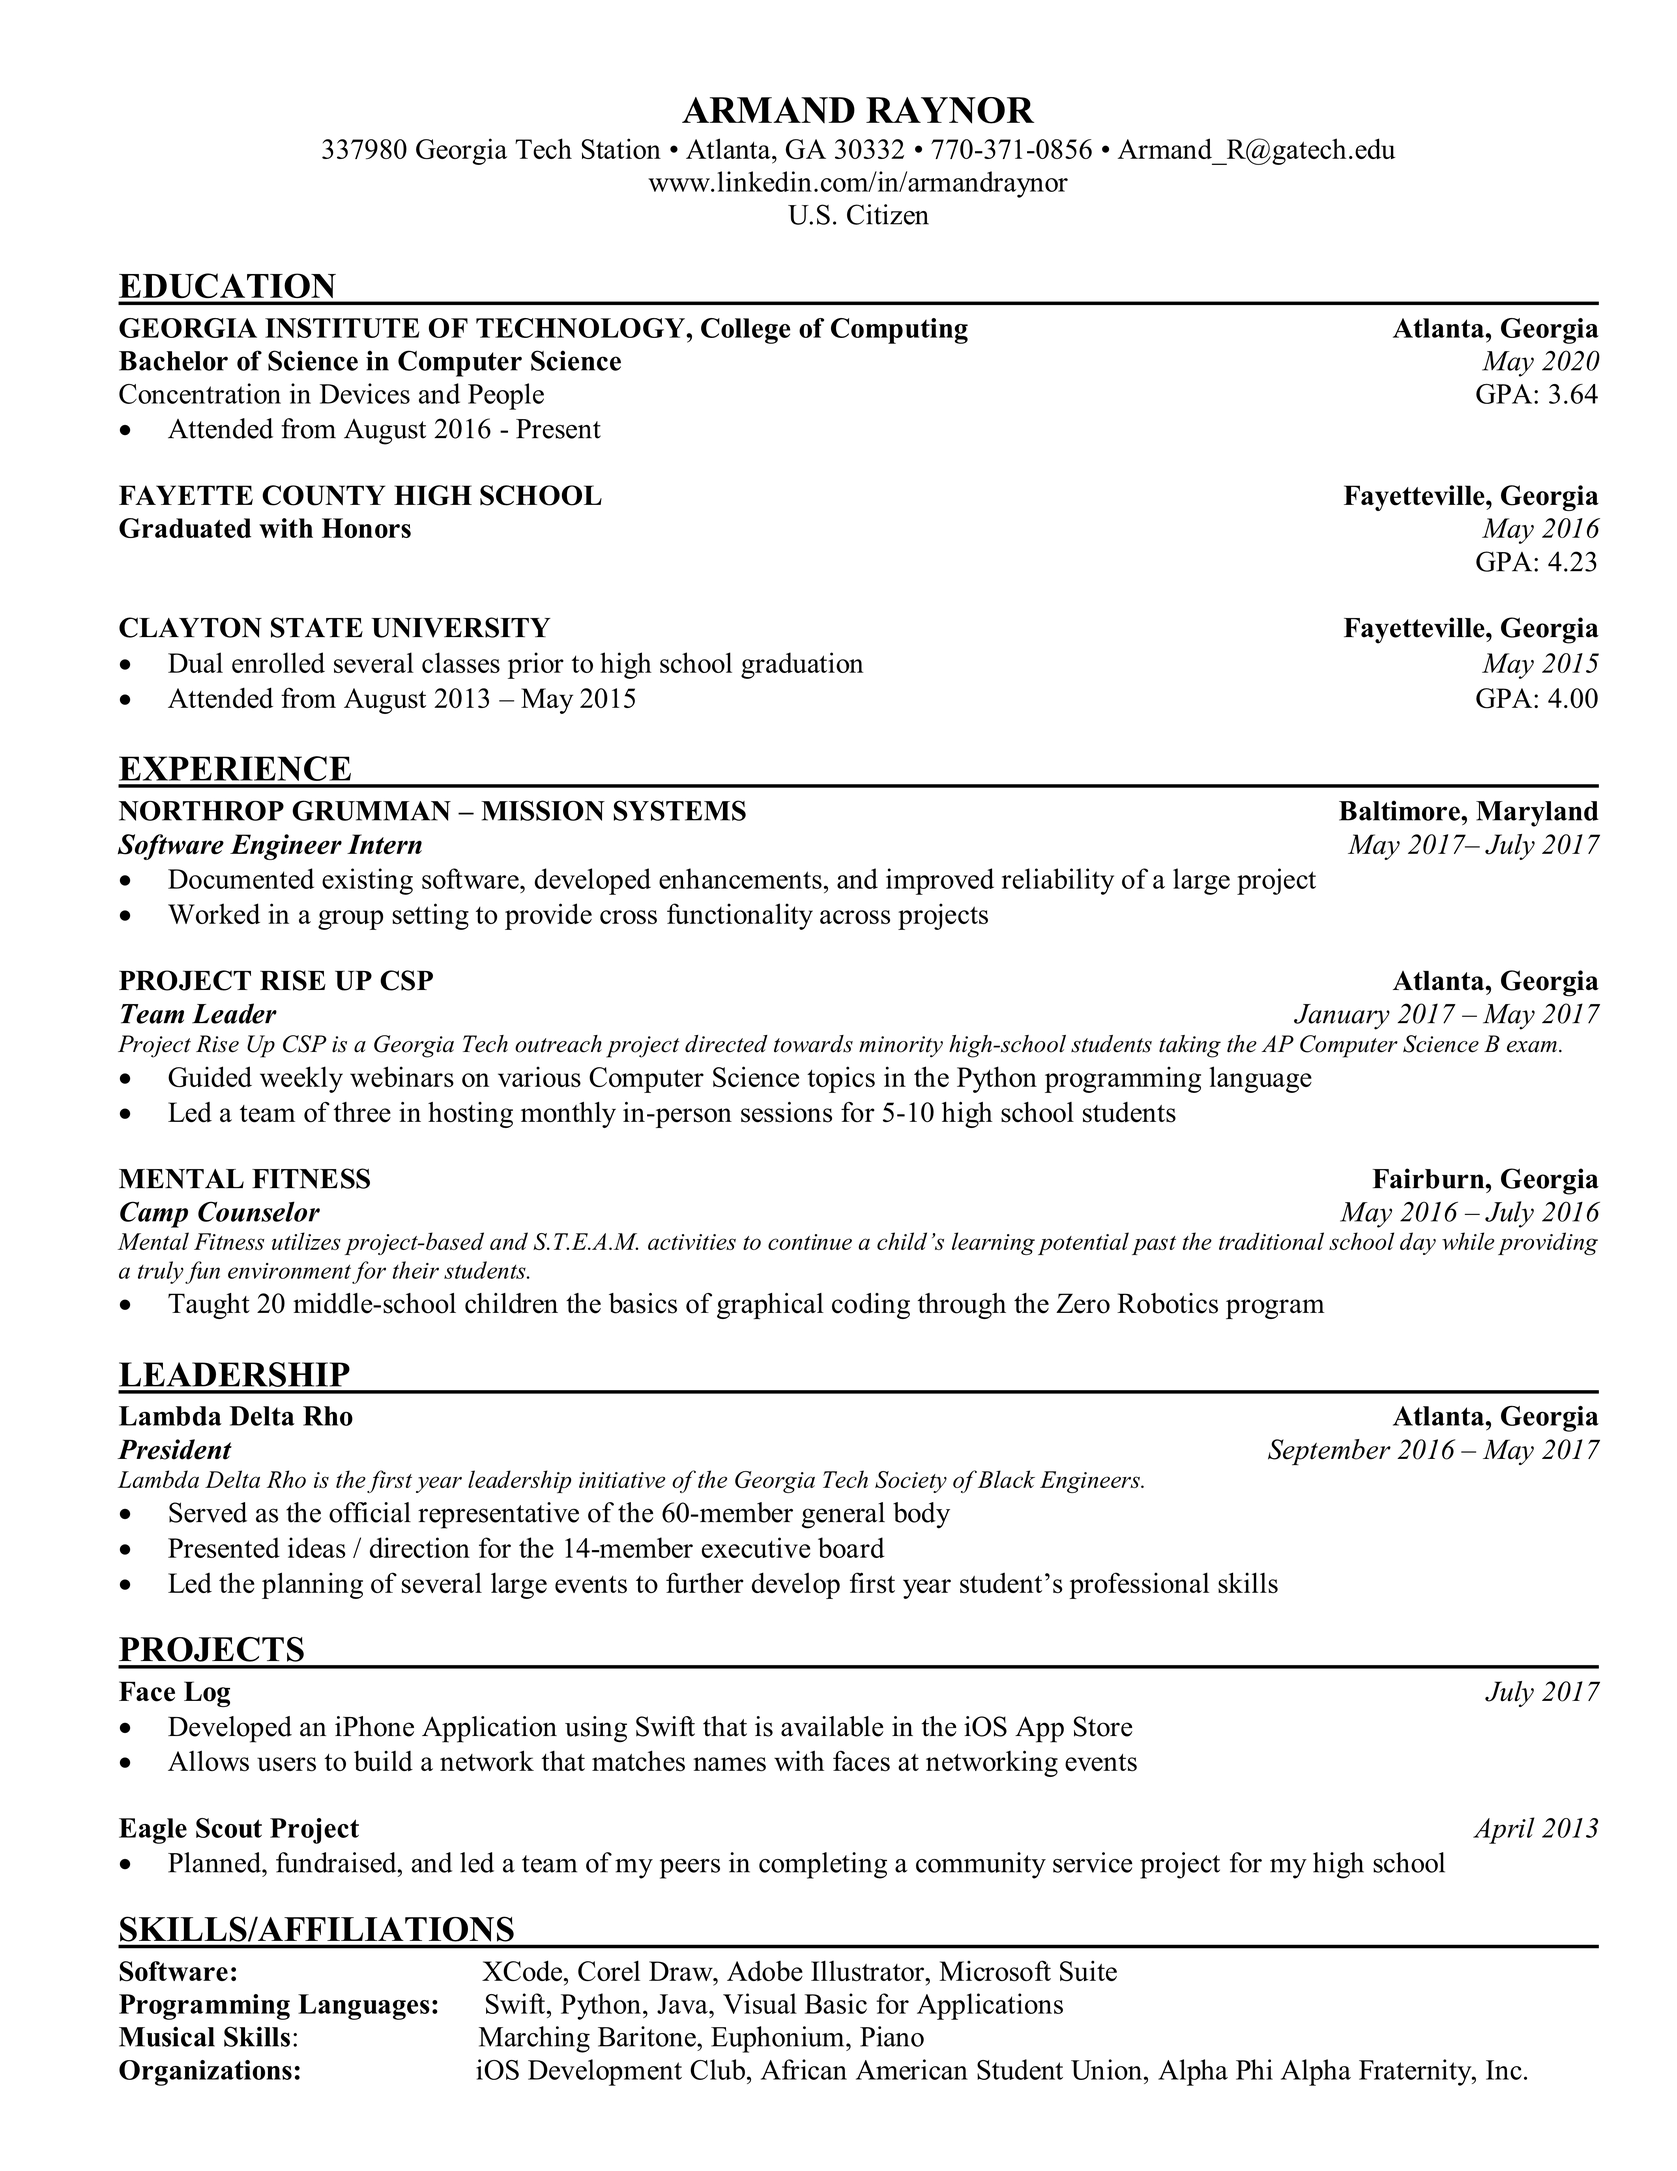
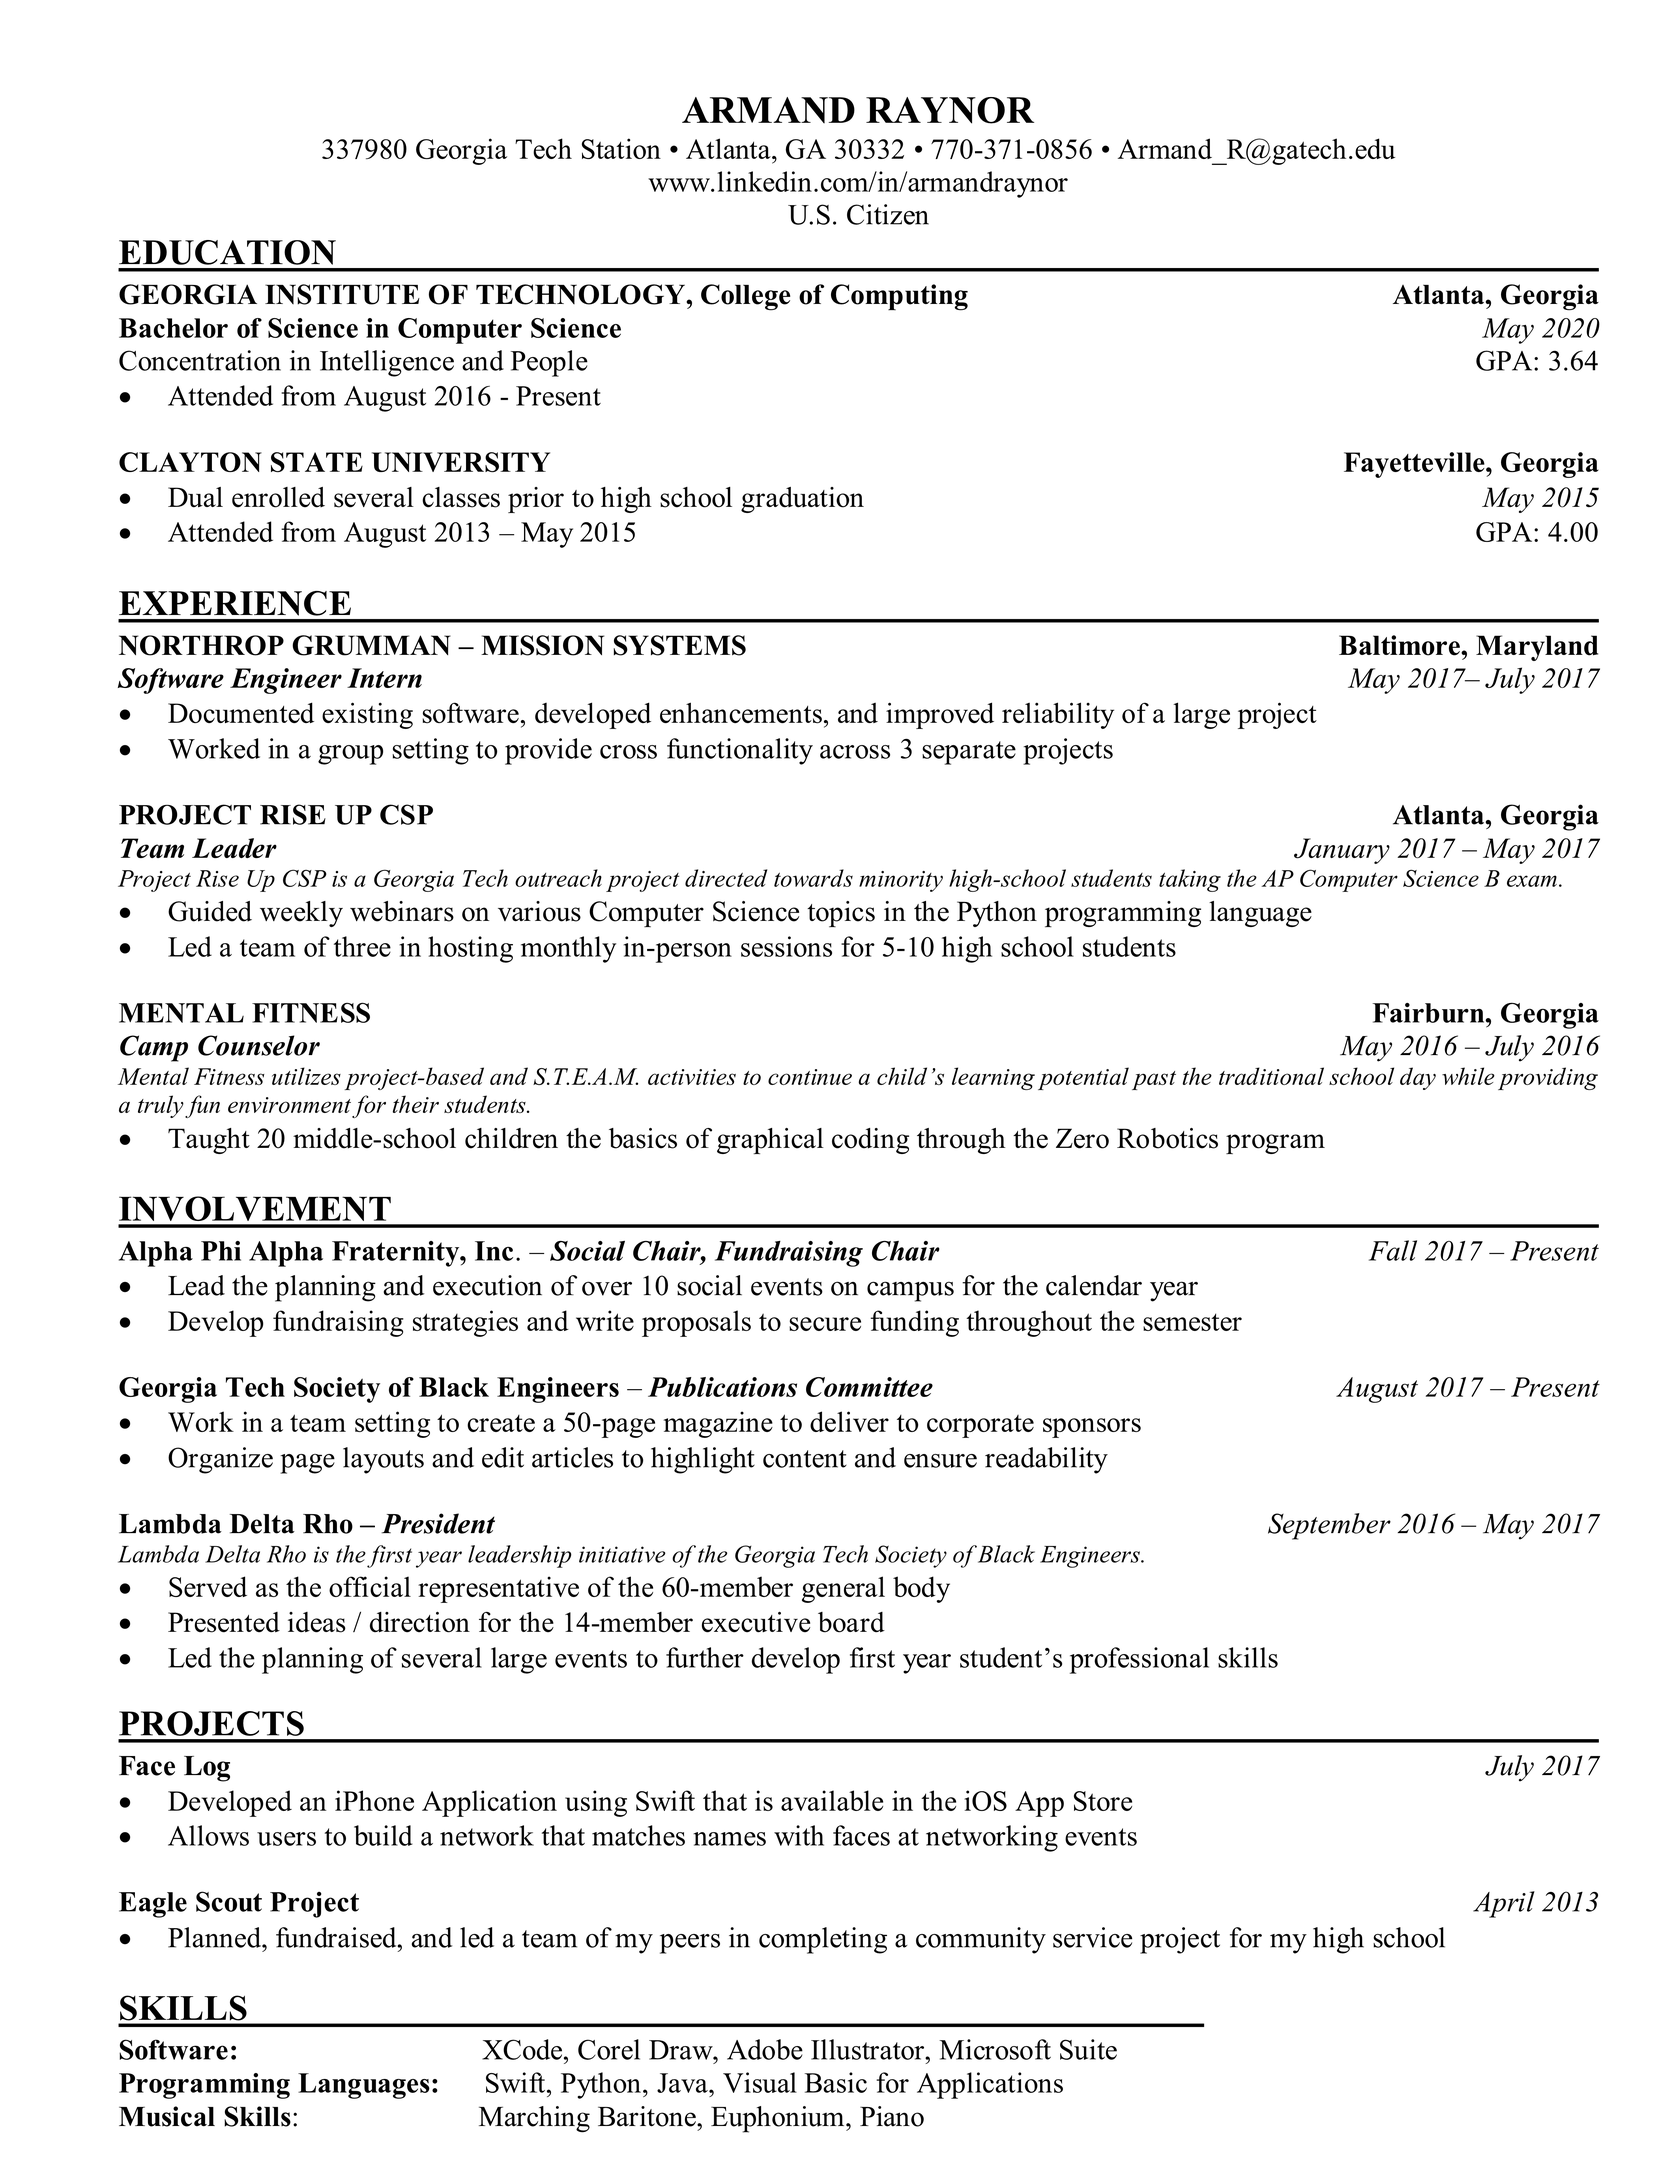
Updated Resume, Headshot, and footer

diff --git a/index.html b/index.html
@@ -379,7 +379,7 @@ print 'It took ' + i + ' iterations to sort the deck.';</code></pre>
 
                 <!-- Footer -->
                     <footer id="footer">
-                        <p class="copyright">&copy; Armand Raynor - Updated Januaray 2018</p>
+                        <p class="copyright">&copy; Armand Raynor - Updated March 2018</p>
                     </footer>
 
             </div>
